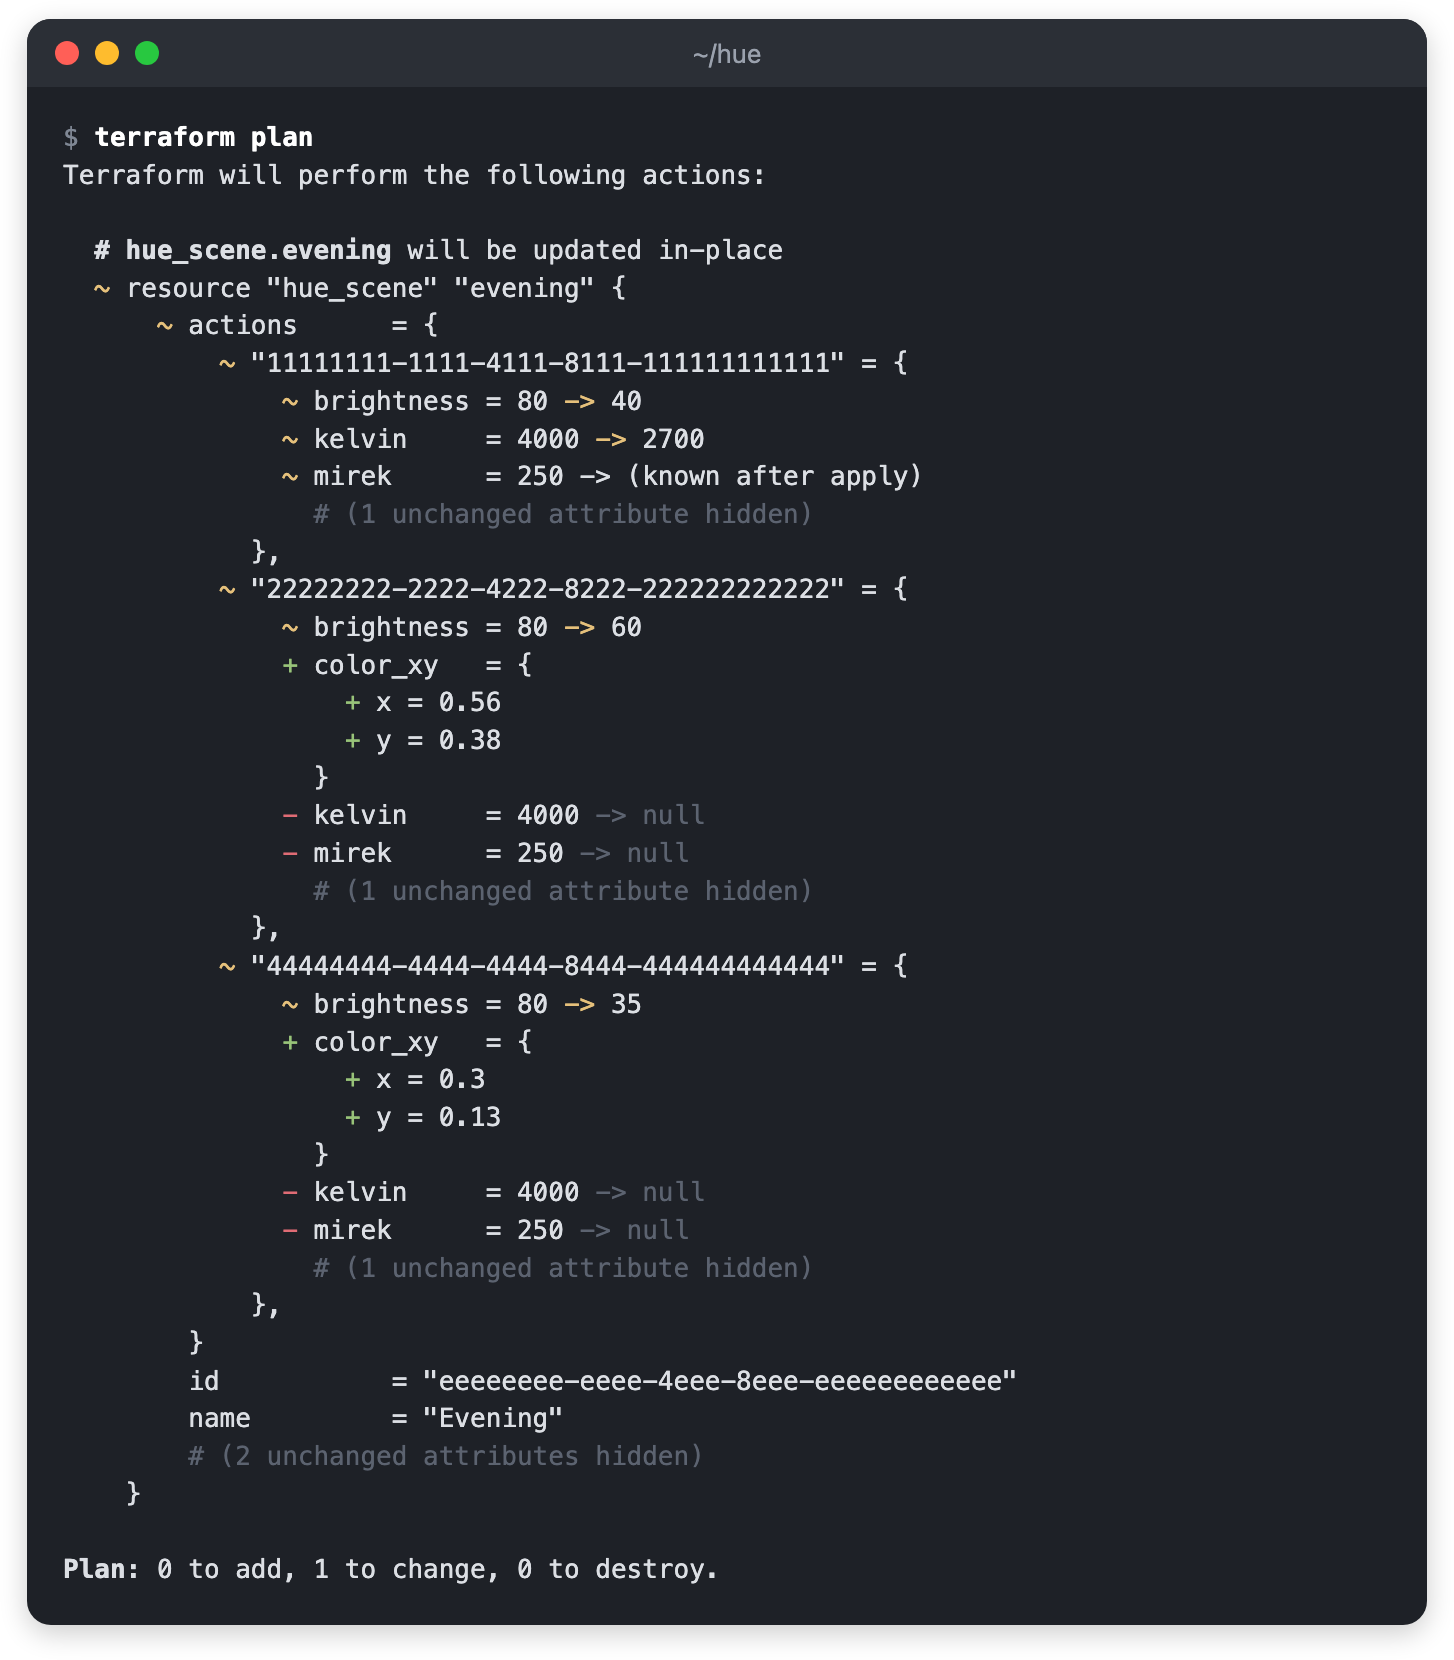
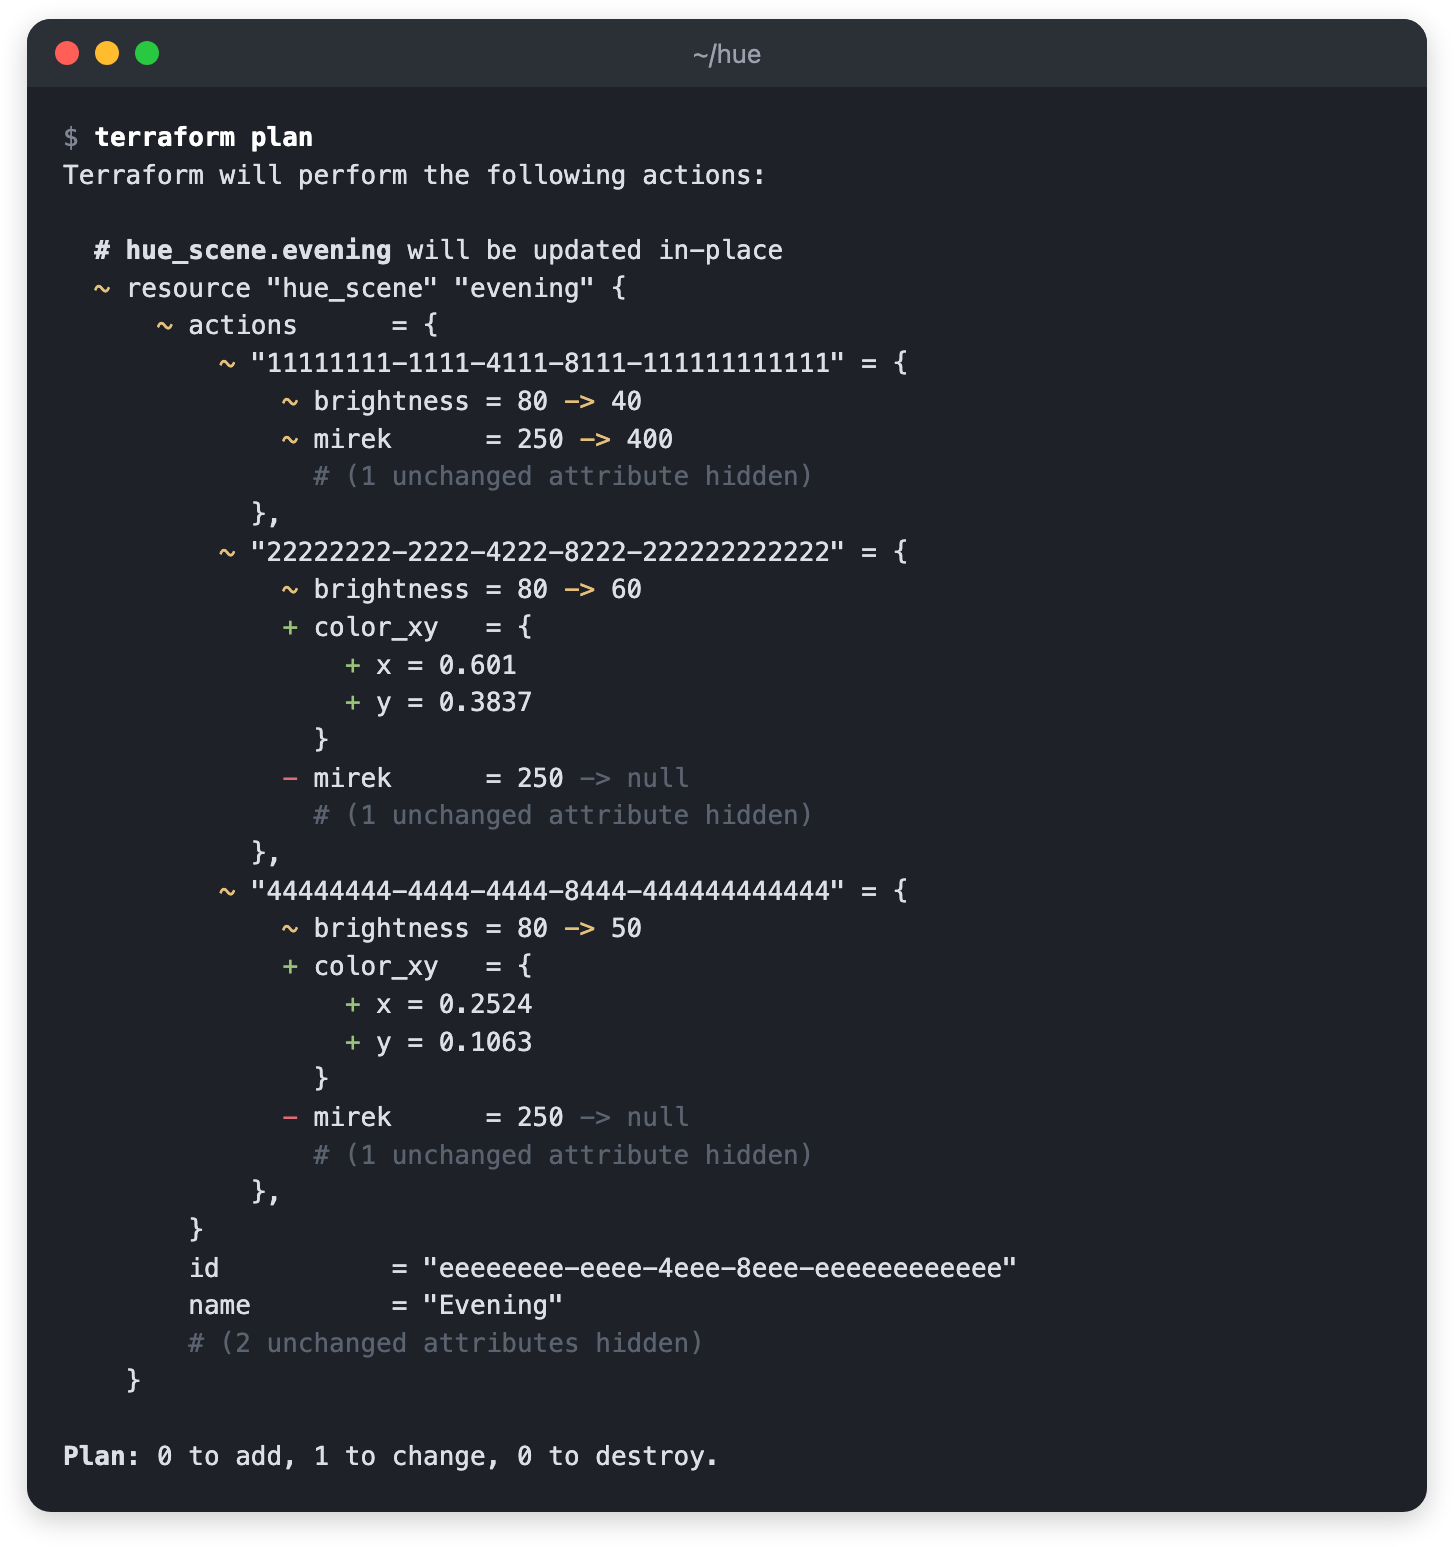
Retake the README images for 0.2.0 and show colors in hex (#36)
The README now opens with a scene whose colors are written with
color_from_hex and mirek_from_kelvin, followed by its plan. The plan and
the previews come from main, so the plan has no kelvin, and the preview
swatches take brightness as V.

diff --git a/README.md b/README.md
@@ -7,7 +7,21 @@ behaviors, and device names and icons.
 **Add lights and devices using the Hue app. This provider manages resources that
 are already registered on a Hue bridge.**
 
-<img src="docs/images/plan.png" width="720" alt="terraform plan output for a Hue scene: one light becomes warmer and dimmer, and two others change from white to orange and purple">
+Scene colors can be written in hex, and color temperatures in kelvin:
+
+```hcl
+resource "hue_scene" "evening" {
+  name  = "Evening"
+  group = hue_room.living.id
+  actions = {
+    (local.sofa)  = { on = true, brightness = 40, mirek = provider::hue::mirek_from_kelvin(2500) }
+    (local.shelf) = merge(provider::hue::color_from_hex("#ff8800"), { on = true, brightness = 60 })
+    (local.tv)    = merge(provider::hue::color_from_hex("#8a2be2"), { on = true, brightness = 50 })
+  }
+}
+```
+
+<img src="docs/images/plan.png" width="720" alt="terraform plan output for this scene, whose three lights were at 4000 K: the sofa lamp becomes warmer and dimmer, and the shelf light and the TV backlight change to the colors of the hex values">
 
 ## Getting started
 
